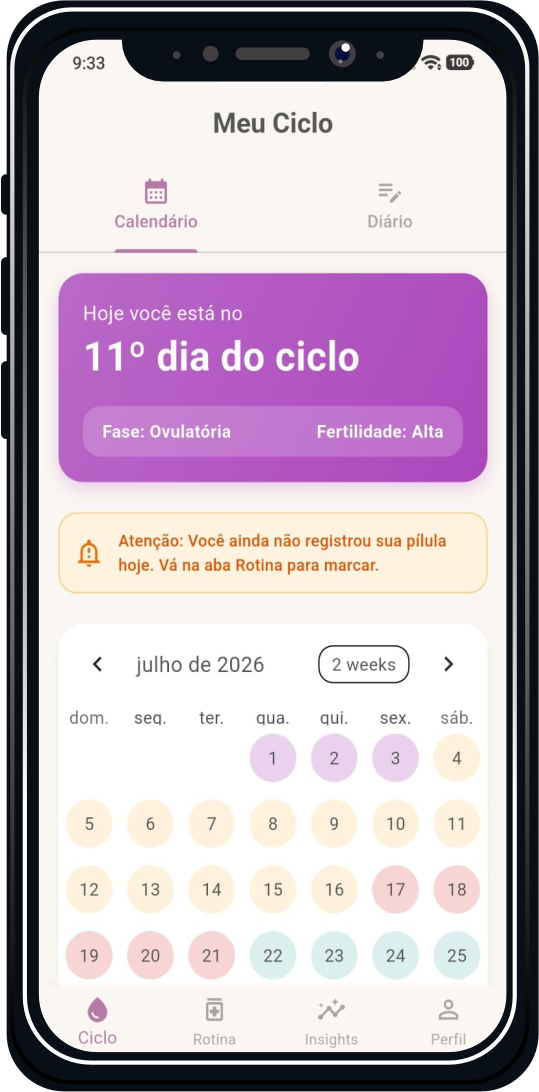
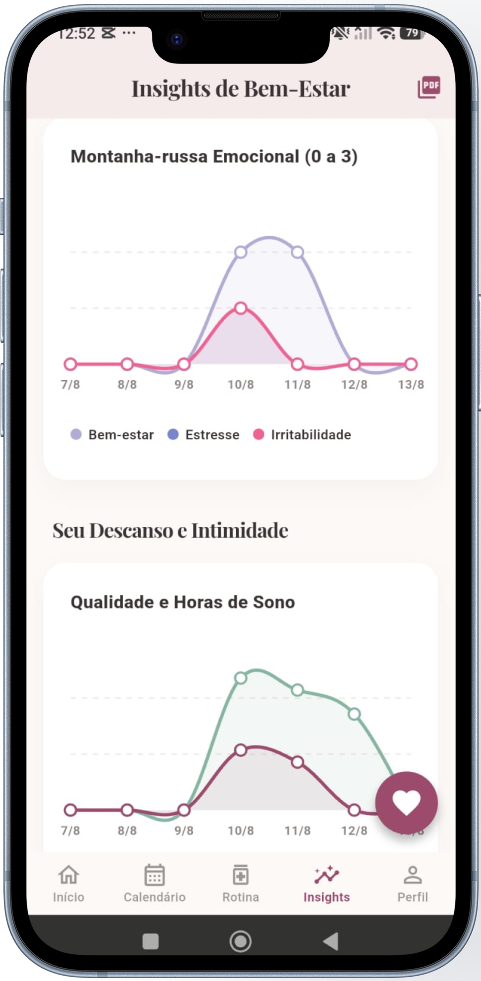
Changes

diff --git a/src/app/guias/_components/guide-article.js b/src/app/guias/_components/guide-article.js
@@ -99,11 +99,6 @@ function GuideSection({ section }) {
       {section.intro ? (
         <p className="mt-4 text-base leading-8 text-slate-700">{section.intro}</p>
       ) : null}
-      {section.paragraphs?.map((paragraph) => (
-        <p key={paragraph} className="mt-4 text-base leading-8 text-slate-700">
-          {paragraph}
-        </p>
-      ))}
       {section.items ? (
         <div className="mt-6 grid gap-4 sm:grid-cols-2">
           {section.items.map((item) => (
@@ -127,6 +122,11 @@ function GuideSection({ section }) {
           ))}
         </ul>
       ) : null}
+      {section.paragraphs?.map((paragraph) => (
+        <p key={paragraph} className="mt-4 text-base leading-8 text-slate-700">
+          {paragraph}
+        </p>
+      ))}
       {attention ? (
         <div className="mt-5 flex items-center gap-2 text-xs font-black uppercase tracking-[0.14em] text-amber-900">
           <Stethoscope className="h-4 w-4" aria-hidden="true" />
@@ -153,7 +153,7 @@ export default function GuideArticle({ guide }) {
 
       <header className="border-b border-slate-100 bg-white">
         <div className="mx-auto flex max-w-6xl items-center justify-between gap-5 px-4 py-4 sm:px-6 lg:px-8">
-          <Link href="/" aria-label="HerCalida — início">
+          <Link href="/" aria-label="HerCalida — início" className="shrink-0">
             <Image
               src="/NovaLogo.png"
               alt="HerCalida"

diff --git a/src/app/layout.js b/src/app/layout.js
@@ -42,21 +42,12 @@ export const metadata = {
     title: "HerCalida | Saúde feminina com contexto e privacidade",
     description:
       "Um acompanhamento que evolui com seus registros, com dados locais por padrão.",
-    images: [
-      {
-        url: "/HerCalida.png",
-        width: 1200,
-        height: 1500,
-        alt: "HerCalida — saúde feminina com contexto",
-      },
-    ],
   },
   twitter: {
     card: "summary_large_image",
     title: "HerCalida | Saúde feminina com contexto e privacidade",
     description:
       "Acompanhe ciclo, rotina, sintomas e fases da vida com escolhas claras sobre seus dados.",
-    images: ["/HerCalida.png"],
   },
   robots: {
     index: true,

diff --git a/src/app/opengraph-image.js b/src/app/opengraph-image.js
@@ -1,0 +1,16 @@
+import {
+  createGuideOgImage,
+  guideOgSize,
+} from "./guias/_components/create-guide-og-image";
+
+export const alt = "HerCalida — saúde feminina com contexto e privacidade";
+export const size = guideOgSize;
+export const contentType = "image/png";
+
+export default function Image() {
+  return createGuideOgImage(
+    "Saúde feminina com contexto",
+    "Um acompanhamento que evolui com os seus registros",
+  );
+}
+

diff --git a/src/app/twitter-image.js b/src/app/twitter-image.js
@@ -1,0 +1,16 @@
+import {
+  createGuideOgImage,
+  guideOgSize,
+} from "./guias/_components/create-guide-og-image";
+
+export const alt = "HerCalida — saúde feminina com contexto e privacidade";
+export const size = guideOgSize;
+export const contentType = "image/png";
+
+export default function Image() {
+  return createGuideOgImage(
+    "Saúde feminina com contexto",
+    "Um acompanhamento que evolui com os seus registros",
+  );
+}
+

diff --git a/docs/marketing/sprint-primeiros-100.md b/docs/marketing/sprint-primeiros-100.md
@@ -1,0 +1,278 @@
+# Sprint HerCalida: os primeiros 100 visitantes
+
+Período sugerido: **13 a 26 de agosto de 2026**  
+Campanha padrão: `primeiros_100`
+
+## Meta e regra de decisão
+
+| Canal | Meta de visitantes |
+| --- | ---: |
+| Instagram | 35 |
+| WhatsApp e contatos pessoais | 20 |
+| Comunidades e parcerias | 20 |
+| Google e SEO | 15 |
+| Pinterest e Threads | 10 |
+| **Total** | **100** |
+
+O objetivo da sprint não é maximizar curtidas. É descobrir qual combinação de **dúvida + canal + chamada** gera visitas qualificadas aos guias.
+
+## Páginas de destino
+
+1. [Como entender as fases do ciclo menstrual](https://hercalida.com/guias/ciclo-menstrual)
+2. [O que muda no corpo no início da gravidez?](https://hercalida.com/guias/inicio-da-gravidez)
+3. [Primeiros sinais da menopausa](https://hercalida.com/guias/primeiros-sinais-menopausa)
+
+Não use a página inicial como destino padrão. Escolha o guia que responde exatamente à chamada da publicação.
+
+## Links rastreáveis prontos
+
+| Uso | URL |
+| --- | --- |
+| Instagram — bio | `https://hercalida.com/guias/ciclo-menstrual?utm_source=instagram&utm_medium=social&utm_campaign=primeiros_100&utm_content=bio` |
+| Instagram — Story ciclo | `https://hercalida.com/guias/ciclo-menstrual?utm_source=instagram&utm_medium=story&utm_campaign=primeiros_100&utm_content=story_ciclo` |
+| Instagram — Story gravidez | `https://hercalida.com/guias/inicio-da-gravidez?utm_source=instagram&utm_medium=story&utm_campaign=primeiros_100&utm_content=story_gravidez` |
+| Instagram — Story menopausa | `https://hercalida.com/guias/primeiros-sinais-menopausa?utm_source=instagram&utm_medium=story&utm_campaign=primeiros_100&utm_content=story_menopausa` |
+| WhatsApp — envio pessoal | `https://hercalida.com/guias/ciclo-menstrual?utm_source=whatsapp&utm_medium=mensagem&utm_campaign=primeiros_100&utm_content=feedback_pessoal` |
+| Threads | `https://hercalida.com/guias/ciclo-menstrual?utm_source=threads&utm_medium=social&utm_campaign=primeiros_100&utm_content=post_ciclo` |
+| Pinterest — ciclo | `https://hercalida.com/guias/ciclo-menstrual?utm_source=pinterest&utm_medium=social&utm_campaign=primeiros_100&utm_content=pin_ciclo` |
+| Pinterest — gravidez | `https://hercalida.com/guias/inicio-da-gravidez?utm_source=pinterest&utm_medium=social&utm_campaign=primeiros_100&utm_content=pin_gravidez` |
+| Pinterest — menopausa | `https://hercalida.com/guias/primeiros-sinais-menopausa?utm_source=pinterest&utm_medium=social&utm_campaign=primeiros_100&utm_content=pin_menopausa` |
+| Parceria | `https://hercalida.com/guias/ciclo-menstrual?utm_source=parceria&utm_medium=referral&utm_campaign=primeiros_100&utm_content=NOME_DO_PERFIL` |
+| Comunidade | `https://hercalida.com/guias/ciclo-menstrual?utm_source=comunidade&utm_medium=referral&utm_campaign=primeiros_100&utm_content=NOME_DA_COMUNIDADE` |
+
+Troque `NOME_DO_PERFIL` e `NOME_DA_COMUNIDADE` por identificadores curtos, sem espaço nem acento. Não reutilize o mesmo link em parceiros diferentes.
+
+## Kit 1 — ciclo menstrual
+
+### Carrossel: “4 fases do ciclo, sem complicação”
+
+1. **Capa:** 4 fases do ciclo menstrual, sem complicação.
+2. **Comece aqui:** o dia 1 é o primeiro dia da menstruação.
+3. **Menstruação:** o endométrio descama e é eliminado como sangramento.
+4. **Fase folicular:** vai do início da menstruação até a ovulação. A duração varia.
+5. **Ovulação:** não acontece obrigatoriamente no 14º dia. Calendário é estimativa.
+6. **Fase lútea:** acontece depois da ovulação e antes da próxima menstruação.
+7. **CTA:** sua energia e seu humor também mudam? Leia o guia completo e observe seu próprio padrão.
+
+Legenda:
+
+> Um ciclo de 28 dias é uma referência, não uma regra para todo corpo. Entender as fases ajuda a organizar seus registros — mas sintomas e aplicativos, sozinhos, não confirmam ovulação. Leia o guia completo da HerCalida pelo link da bio. Conteúdo educativo; não substitui avaliação profissional.
+
+### Vídeo curto 1 — “Em qual fase você está?” (20–25 s)
+
+> Você sabe em qual fase do ciclo está? A contagem começa no primeiro dia da menstruação. Depois vêm a fase folicular, a ovulação e a fase lútea. Mas atenção: a ovulação não ocorre obrigatoriamente no dia 14, e o calendário é só uma estimativa. No guia da HerCalida, eu explico cada fase sem complicação.
+
+Texto na tela final: **“Leia: Como entender as fases do ciclo menstrual”**.
+
+### Vídeo curto 2 — “28 dias não é regra” (15–20 s)
+
+> Seu ciclo não precisa ter exatamente 28 dias para ser acompanhado. O mais útil é registrar o primeiro dia de cada menstruação e observar sua própria variação ao longo do tempo. Quer entender o que acontece entre uma menstruação e outra? O guia completo está na HerCalida.
+
+### Stories
+
+1. Enquete: **“Você acompanha o primeiro dia da menstruação?”** — Sempre / Quase nunca.
+2. Resposta: **“Esse é o dia 1 do ciclo. A partir dele, você consegue observar duração e variação.”**
+3. Link: **“Quer entender menstruação, fase folicular, ovulação e fase lútea? Abra o guia.”**
+
+Envie o link individualmente a quem responder e demonstrar interesse. Não faça diagnóstico por mensagem.
+
+### Threads
+
+> A ovulação não acontece obrigatoriamente no 14º dia — e 28 dias não é uma regra universal. Para acompanhar o ciclo, comece pelo que você realmente consegue registrar: o primeiro dia de cada menstruação e os sinais que se repetem no seu histórico. Explicamos as quatro fases sem transformar estimativa em certeza: [link rastreável].
+
+### Pinterest
+
+- Título: **4 fases do ciclo menstrual explicadas**
+- Texto da arte: **Menstruação • Fase folicular • Ovulação • Fase lútea**
+- Descrição: **Entenda quando o ciclo começa, por que a ovulação não acontece sempre no dia 14 e o que vale registrar. Guia educativo da HerCalida com fontes institucionais.**
+
+### WhatsApp pessoal
+
+> Oi! Estou desenvolvendo a HerCalida, uma plataforma brasileira sobre ciclo, gravidez e menopausa. Preparei um guia simples sobre as fases do ciclo menstrual. Você poderia ler e me dizer se ficou claro? Não precisa divulgar — uma opinião sincera já me ajuda muito: [link WhatsApp rastreável]
+
+## Kit 2 — início da gravidez
+
+### Carrossel: “O que pode mudar no começo da gravidez?”
+
+1. **Capa:** O que pode mudar no corpo no início da gravidez?
+2. **Atraso menstrual:** costuma chamar atenção, mas existem outras causas.
+3. **Mamas e energia:** sensibilidade, aumento das mamas, sono e cansaço podem aparecer.
+4. **Digestão:** enjoo, vômitos ou aversões variam muito entre gestações.
+5. **Vontade de urinar:** pode aumentar já no início.
+6. **Confirmação:** sintomas isolados não confirmam gravidez. Faça o teste e inicie o pré-natal.
+7. **CTA:** veja também os sinais que pedem avaliação rápida no guia completo.
+
+Legenda:
+
+> Nem toda gravidez começa do mesmo jeito. Algumas pessoas sentem várias mudanças; outras quase nenhuma. Sintomas isolados não confirmam uma gestação. Leia o guia e, diante de suspeita, procure orientação para testar e iniciar o pré-natal.
+
+### Vídeo curto 1 — “Sintoma não é confirmação” (20 s)
+
+> Atraso menstrual, enjoo, sono, cansaço e sensibilidade nas mamas podem aparecer no início da gravidez. Mas nenhum desses sinais, sozinho, confirma a gestação. O próximo passo é testar e procurar o pré-natal. Reunimos as mudanças mais comuns e os sinais de alerta em um guia da HerCalida.
+
+### Vídeo curto 2 — “Comece o pré-natal cedo” (15 s)
+
+> Confirmou a gravidez? Procure o pré-natal. É ali que a equipe avalia sua saúde, organiza exames, vacinas e orientações para o seu contexto. E não use medicamentos, chás ou suplementos por conta própria.
+
+### Stories
+
+1. Enquete: **“Você sabia que nem toda gestante sente enjoo?”** — Sim / Não.
+2. Resposta: **“Os sintomas variam. Algumas pessoas sentem vários; outras, poucos.”**
+3. Link: **“Veja o que pode mudar e quais sinais merecem avaliação.”**
+
+### Threads
+
+> Nem toda gestante sente enjoo — e sintoma isolado não confirma gravidez. Atraso menstrual, sono, cansaço e mudanças nas mamas podem aparecer, mas o caminho é testar e iniciar o pré-natal. Guia educativo com sinais comuns e alertas: [link rastreável].
+
+### Pinterest
+
+- Título: **Primeiras mudanças no corpo durante a gravidez**
+- Texto da arte: **Sintomas comuns não são confirmação**
+- Descrição: **Atraso menstrual, mamas sensíveis, sono, enjoo e vontade de urinar podem aparecer. Saiba como confirmar e quando procurar atendimento.**
+
+### WhatsApp pessoal
+
+> Oi! A HerCalida publicou um guia simples sobre mudanças comuns no início da gravidez e sinais que pedem avaliação. Você poderia ler e me dizer se a linguagem está clara e acolhedora? [link rastreável]
+
+## Kit 3 — climatério e menopausa
+
+### Carrossel: “Os primeiros sinais da transição para a menopausa”
+
+1. **Capa:** Primeiros sinais da menopausa: o que observar.
+2. **Primeiro, a diferença:** climatério é a transição; menopausa é a última menstruação.
+3. **Mudanças do ciclo:** intervalo e fluxo podem ficar irregulares.
+4. **Ondas de calor:** podem vir com suor, rubor ou palpitação.
+5. **Sono e humor:** insônia, irritabilidade ou dificuldade de concentração podem aparecer.
+6. **Conforto íntimo:** ressecamento, dor e sintomas urinários têm opções de cuidado.
+7. **CTA:** sangramento depois de 12 meses sem menstruar precisa ser avaliado. Leia o guia.
+
+Legenda:
+
+> Menopausa não é sinônimo de climatério. A transição pode durar anos e não existe uma experiência única. Mudanças que incomodam merecem conversa com uma equipe de saúde; tratamento hormonal não deve ser iniciado por conta própria.
+
+### Vídeo curto 1 — “Climatério não é menopausa” (20 s)
+
+> Climatério é a fase de transição. Menopausa é um marco: a última menstruação, reconhecida depois de 12 meses seguidos sem menstruar e sem outra causa. Antes disso, o ciclo pode mudar e ondas de calor, alterações do sono ou ressecamento podem aparecer.
+
+### Vídeo curto 2 — “Você não precisa apenas suportar” (15–20 s)
+
+> Ondas de calor, insônia ou ressecamento estão atrapalhando sua qualidade de vida? Você não precisa apenas suportar. Existem opções de cuidado, hormonais e não hormonais, escolhidas de acordo com seu histórico e suas preferências.
+
+### Stories
+
+1. Enquete: **“Você sabe a diferença entre climatério e menopausa?”** — Sim / Sempre confundo.
+2. Resposta: **“Climatério é a transição. Menopausa é a última menstruação, confirmada retrospectivamente.”**
+3. Link: **“Veja os primeiros sinais e quando procurar avaliação.”**
+
+### Threads
+
+> Climatério é a transição; menopausa é a última menstruação, reconhecida depois de 12 meses sem menstruar. Mudanças no ciclo, ondas de calor, sono e ressecamento podem aparecer — mas nem todo sintoma depois dos 40 é hormonal. Guia completo: [link rastreável].
+
+### Pinterest
+
+- Título: **Primeiros sinais da menopausa**
+- Texto da arte: **Mudanças do ciclo • Calor • Sono • Conforto íntimo**
+- Descrição: **Entenda climatério, perimenopausa e menopausa, os sinais mais comuns e quando buscar uma avaliação profissional.**
+
+### WhatsApp pessoal
+
+> Oi! Preparei na HerCalida um guia que explica a diferença entre climatério e menopausa e os sinais que podem aparecer nessa transição. Você poderia ler e me dizer qual parte ainda gera dúvida? [link rastreável]
+
+## Calendário de execução — 14 dias
+
+| Dia | Data | Publicação e distribuição | Meta do dia |
+| --- | --- | --- | ---: |
+| 1 | 13/08 | Publicar site; conferir Analytics; colocar guia de ciclo na bio; carrossel + 3 Stories | 8 visitas |
+| 2 | 14/08 | Vídeo 1 de ciclo; pedir feedback a 5 contatos | 7 |
+| 3 | 15/08 | Story com enquete; responder quem interagiu; Threads de ciclo; 5 contatos | 7 |
+| 4 | 16/08 | Vídeo 2 de ciclo; Pinterest de ciclo; 5 contatos | 7 |
+| 5 | 17/08 | Resumo das dúvidas de ciclo; 5 contatos; ajudar em 2 comunidades sem link direto | 7 |
+| 6 | 18/08 | Carrossel de gravidez + Stories; responder interações | 8 |
+| 7 | 19/08 | Vídeo 1 de gravidez; abordar 2 parceiros | 7 |
+| 8 | 20/08 | Threads + Pinterest de gravidez; abordar 2 parceiros | 7 |
+| 9 | 21/08 | Vídeo 2 de gravidez; abordar 1 parceiro; retornar respostas | 7 |
+| 10 | 22/08 | Analisar aquisição e páginas; publicar o formato campeão com nova chamada | 8 |
+| 11 | 23/08 | Carrossel de menopausa + Stories | 7 |
+| 12 | 24/08 | Vídeo 1 de menopausa; Pinterest; ajudar em comunidades | 6 |
+| 13 | 25/08 | Vídeo 2 ou colaboração; Threads; repetir melhor link/canal | 7 |
+| 14 | 26/08 | Resumo das dúvidas; último impulso no canal campeão; análise final | 7 |
+|  |  | **Total planejado** | **100** |
+
+## Contatos pessoais: controle dos 20 envios
+
+Crie uma lista privada, sem dados sensíveis, com estas colunas:
+
+| Pessoa | Tema provável | Data | Respondeu? | Visitou? | Dúvida recebida | Pode contatar novamente? |
+| --- | --- | --- | --- | --- | --- | --- |
+
+Regras:
+
+- escolha pessoas que já demonstraram interesse no tema;
+- envie uma mensagem individual, não uma lista de transmissão;
+- peça leitura e opinião, não compartilhamento;
+- não envie novo lembrete se a pessoa não respondeu;
+- não registre detalhes de saúde relatados por ela nesse controle de marketing.
+
+## Parcerias: cinco candidatos para triagem
+
+Estes são **leads de prospecção**, não endossos. Antes do contato, confira credenciais profissionais, tamanho e atividade atual da audiência, linguagem usada e regras éticas da profissão.
+
+| Candidato | Alinhamento inicial | Ideia de colaboração |
+| --- | --- | --- |
+| [Alana Henrique — FisioAlana](https://linktr.ee/fisioalana) | Fisioterapia pélvica, gestantes e saúde da mulher em Salvador/Lauro de Freitas | Perguntas e respostas: “o que vale registrar antes de uma consulta” |
+| [Nathalie Santana](https://www.locaisdobrasil.com.br/encontre/fisioterapeuta/salvador-ba/nathaliesantanafisio/6507ae2c831a9c92fa85287a) | Fisioterapia pélvica e obstétrica | Carrossel conjunto sobre desconfortos que merecem avaliação |
+| [CETAP Fisioterapia](https://solo.to/cetapfisio) | Assoalho pélvico e saúde íntima em Salvador/Lauro de Freitas | Live curta sobre ciclo, gestação e assoalho pélvico |
+| [Clínica Profisio Salvador](https://www.doctoralia.com.br/clinicas/fisioterapia-em-salvador-clinica-profisio) | Fisioterapia pélvica/uroginecológica e preparação pré/pós-parto | Entrevista educativa para o guia de gravidez |
+| [Menos Pausa Mais Vida](https://mais.opovo.com.br/reportagens-especiais/elas-temporada-2/2024/03/08/mulheres-e-menopausa-o-tabu-que-fica-cada-vez-mais-visivel.html) | Conteúdo e vivência sobre menopausa | Conversa sobre dúvidas que as mulheres gostariam de ter feito antes |
+
+Mensagem-base:
+
+> Olá! A HerCalida produz conteúdo educativo e acessível sobre ciclo menstrual, gravidez e menopausa. Publicamos um guia sobre [tema], com fontes institucionais e limites claros para não transformar educação em diagnóstico. Gostaria de criar um conteúdo simples em conjunto — por exemplo, [formato] — para responder dúvidas frequentes do público. A colaboração seria sem custo e com divulgação para as duas audiências. Faz sentido para você?
+
+Personalize a primeira frase com algo real do trabalho da pessoa. Não envie a mesma mensagem em massa.
+
+## Comunidades: roteiro de participação
+
+1. Escolha no máximo três comunidades em que você realmente possa contribuir.
+2. Leia as regras e observe as conversas por pelo menos um dia.
+3. Responda perguntas com informação útil, sem link e sem diagnóstico.
+4. Quando um guia for diretamente relevante, pergunte: **“Expliquei esse tema em mais detalhes em um guia educativo da HerCalida. Posso compartilhar?”**
+5. Use um UTM diferente por comunidade e registre a data.
+6. Se a administração não permitir links, respeite e continue contribuindo sem promoção.
+
+## Painel de acompanhamento
+
+No Google Analytics 4:
+
+1. Abra **Relatórios → Aquisição → Aquisição de tráfego**.
+2. Filtre `Campanha da sessão` por `primeiros_100`.
+3. Compare `Origem/mídia da sessão` e `Página de destino`.
+4. Em **Eventos**, acompanhe `share_guide` e `beta_signup`.
+5. Separe visitantes da campanha de acessos internos e testes.
+
+Registro diário mínimo:
+
+| Data | Visitantes da campanha | Instagram | WhatsApp | Parcerias/comunidades | Threads/Pinterest | Google | Compartilhamentos | Cadastros beta |
+| --- | ---: | ---: | ---: | ---: | ---: | ---: | ---: | ---: |
+
+Decisão no dia 10:
+
+- identifique o guia com mais entradas;
+- identifique o canal com mais visitas, não mais impressões;
+- compare a chamada usada no melhor conteúdo;
+- concentre pelo menos 60% do esforço restante nessa combinação;
+- não conclua que um canal “não funciona” com base em uma única publicação.
+
+## Checklist de lançamento
+
+- [ ] Publicar a versão do site na Vercel.
+- [ ] Confirmar que `https://hercalida.com/guias` abre no domínio principal.
+- [ ] Abrir cada guia no celular e no computador.
+- [ ] Testar o botão do WhatsApp e conferir a URL UTM na mensagem.
+- [ ] Escolher **Autorizar medição** em um navegador de teste e confirmar uma visita no GA4 em tempo real.
+- [ ] Escolher **Continuar sem medir** em outro navegador e confirmar que o site segue utilizável.
+- [ ] Enviar `https://hercalida.com/sitemap.xml` ao Google Search Console.
+- [ ] Atualizar o link da bio para o guia de ciclo.
+- [ ] Programar as publicações dos primeiros quatro dias.
+- [ ] Separar os primeiros 20 contatos e personalizar as mensagens.
+
